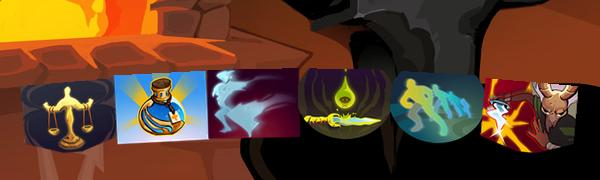
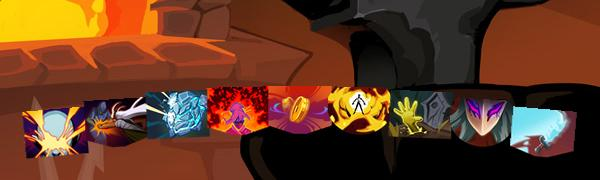
all cards upgrade

diff --git a/CardGeneration.py b/CardGeneration.py
@@ -24,18 +24,16 @@ LABEL_OUT.mkdir(parents=True, exist_ok=True)
 card_data = [] 
 allowed_folders = ['colorless', 'curse', 'green']
 
-for folder in allowed_folders:
-    folder_path = CARD_DIR / folder
-    if folder_path.exists():
-        for file_path in folder_path.rglob('*'):
-            if file_path.suffix.lower() in ['.png', '.jpg']:
-                card_data.append((file_path.name, file_path.as_posix()))
+for folder in CARD_DIR.iterdir():
+    for file_path in folder.rglob('*'):
+        if file_path.suffix.lower() in ['.png', '.jpg']:
+            card_data.append((file_path.name, file_path.as_posix()))
 
 class_map = {name: idx for idx, (name, path) in enumerate(card_data)}
 print(f"Successfully loaded {len(card_data)} cards.")
 
 # Generation settings
-NUM_IMAGES_TO_GENERATE = 1000
+NUM_IMAGES_TO_GENERATE = 100000
 MIN_CARDS = 1
 MAX_CARDS = 10
 CARD_SCALE_FACTOR = 0.3 

diff --git a/Train_CardVision.py b/Train_CardVision.py
@@ -14,12 +14,12 @@ def train_segmentation_model():
     # Start the training loop
     results = model.train(
         data=str(YAML_PATH),
-        epochs=100,        # Start with a low number just to verify the pipeline works
+        epochs=400,
         rect=True,
-	imgsz=608,        # Standard input resolution for YOLO
-        batch=16,          # Low batch size to prevent memory crashes on your CPU/GPU
+	    imgsz=608,
+        batch=16,
         workers=4,
-	device="0"      # Change this to "0" if you have an NVIDIA GPU configured for PyTorch
+	    device="0"
     )
     
     print("Training complete!")
